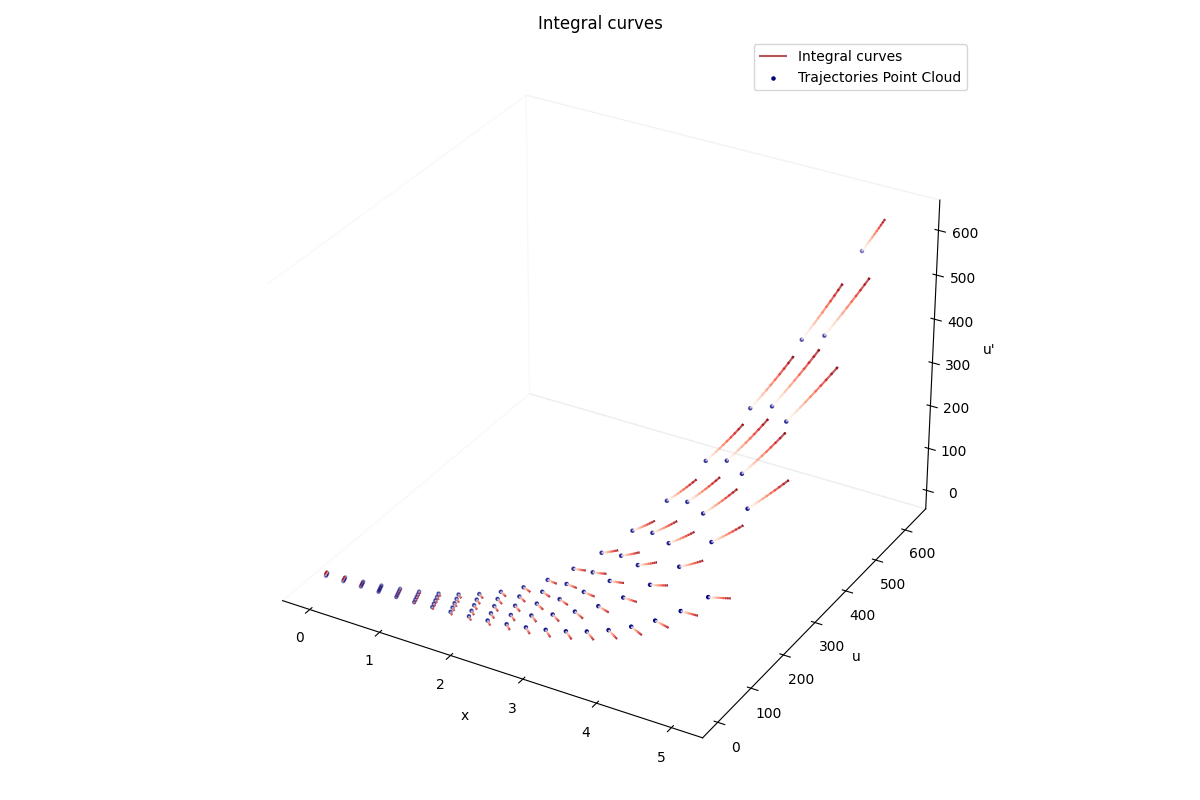
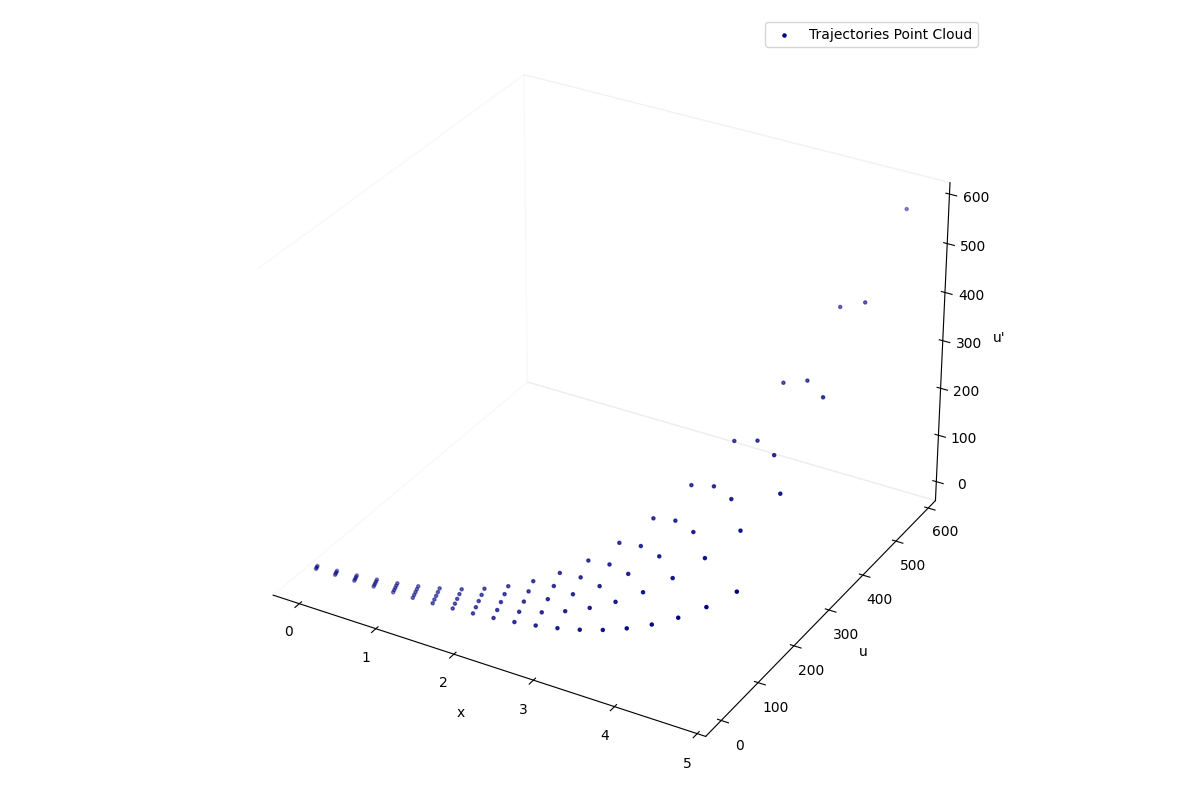
Replots

diff --git a/src/detector.py b/src/detector.py
@@ -99,7 +99,6 @@ class Detector(ABC):
             ax.scatter(data[:, 0], data[:, 1], data[:, 2], s=5, c='navy', zorder=3, label='Trajectories Point Cloud')
             ax.set_xlabel('x'); ax.set_ylabel('u'); ax.set_zlabel("u'")
 
-        ax.set_title('Integral curves')
         ax.legend()
         ax.grid(False)
         ax.xaxis.pane.fill = False  # or True with a color
@@ -128,7 +127,7 @@ class DetectorODE(Detector):
         ])
         raw = np.column_stack([data, grads])
         self._raw = raw
-        print(f'Raw data first rows:\n{raw[:2, :]}')
+        print(f'Raw data first rows:\n{raw[:10, :]}')
 
         if standardize:
             mean = np.zeros(raw.shape[1])
